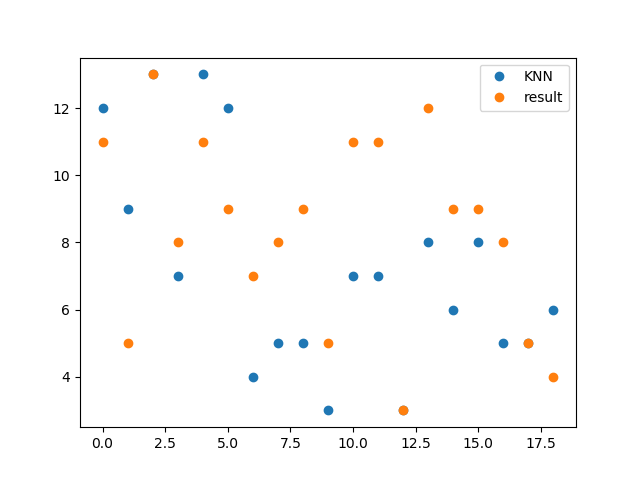
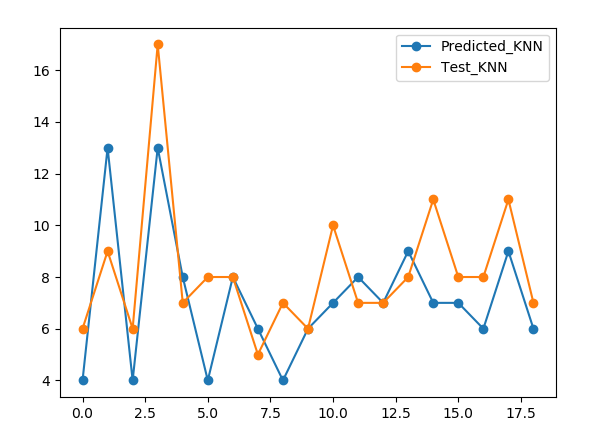
some changes

diff --git a/wine reviews machine learning/general_graph.py b/wine reviews machine learning/general_graph.py
@@ -1,0 +1,22 @@
+import matplotlib.pyplot as plt
+
+
+knn_scores_ev = [0.19047619,0.2,0.33333333,0,0.11111111,0.25,0,0.33333333,0,0.33333333]
+logreg_scores_ev = [0.19047619,0.2,0.33333333,0.33333333,0.22222222,0.25,0.16666667,0.66666667,0.25,0.33333333]
+
+logreg_scores_sum = [0.047619047619047616, 0.2, 0.08333333333333333, 0.5555555555555556, 0.2222222222222222, 0.375, 0.16666666666666666, 0.5, 0.25, 0.3333333333333333]
+knn_scores_sum = [0.14285714285714285, 0.13333333333333333, 0.08333333333333333, 0.1111111111111111, 0.4444444444444444, 0.125, 0.3333333333333333, 0.16666666666666666, 0.25, 0.3333333333333333]
+
+knn_scores_hour = [0.047619047619047616, 0.06666666666666667, 0.08333333333333333, 0.1111111111111111, 0.2222222222222222, 0.375, 0.16666666666666666, 0.0, 0.0, 0.3333333333333333]
+logreg_scores_hour = [0.0, 0.2, 0.08333333333333333, 0.3333333333333333, 0.2222222222222222, 0.25, 0.3333333333333333, 0.3333333333333333, 0.25, 0.0]
+
+
+plt.plot([sum(knn_scores_ev)/len(knn_scores_ev),sum(knn_scores_ev)/len(knn_scores_ev),sum(knn_scores_ev)/len(knn_scores_ev)], marker = '', ls = '--', label = 'knn_scores_ev' )
+plt.plot([sum(logreg_scores_ev)/len(logreg_scores_ev),sum(logreg_scores_ev)/len(logreg_scores_ev),sum(logreg_scores_ev)/len(logreg_scores_ev)], marker = '', ls = '--', label = 'logreg_scores_ev')
+plt.plot([sum(knn_scores_sum)/len(knn_scores_sum),sum(knn_scores_sum)/len(knn_scores_sum),sum(knn_scores_sum)/len(knn_scores_sum)], marker = '', ls = '--', label = 'knn_scores_sum')
+plt.plot([sum(logreg_scores_sum)/len(logreg_scores_sum),sum(logreg_scores_sum)/len(logreg_scores_sum),sum(logreg_scores_sum)/len(logreg_scores_sum)], marker = '', ls = '--', label = 'logreg_scores_sum')
+plt.plot([sum(knn_scores_hour)/len(knn_scores_hour),sum(knn_scores_hour)/len(knn_scores_hour),sum(knn_scores_hour)/len(knn_scores_hour)], marker = '', ls = '--', label = 'knn_scores_hour')
+plt.plot([sum(logreg_scores_hour)/len(logreg_scores_hour),sum(logreg_scores_hour)/len(logreg_scores_hour),sum(logreg_scores_hour)/len(logreg_scores_hour)], marker = '', ls = '--', label = 'logreg_scores_hour')
+plt.title('Accuracy of different parameters choices and methods', loc='center')
+plt.legend()
+plt.show()

diff --git a/wine reviews machine learning/knn_and_logreg_sum.py b/wine reviews machine learning/knn_and_logreg_sum.py
@@ -52,10 +52,17 @@ X_train, X_test, y_train, y_test = train_test_split(train, target, test_size=0.2
 knn = KNeighborsClassifier(n_neighbors=3)
 
 #Train the model using the training sets
-#knn.fit(X_train, y_train)
+knn.fit(X_train, y_train)
 
 #Predict the response for test dataset
-#y_pred = knn.predict(X_test)
+y_pred = knn.predict(X_test)
+
+y_pred = knn.predict(X_test)
+p1 = plt.plot(y_pred, marker = 'o', ls = '-')
+p2 = plt.plot(y_test, marker = 'o', ls = '-')
+
+plt.legend((p1[0],p2[0]),('Predicted_KNN', 'Test_KNN'))
+plt.show()
 
 knn_scores = cross_val_score(knn, train, target, cv = 10, scoring='accuracy')
 
@@ -77,10 +84,10 @@ logreg = LogisticRegression()
 logreg.fit(X_train, y_train)
 
 logreg_predict = logreg.predict(X_test)
-p1 = plt.plot(logreg_predict, marker = 'o', ls = '')
-p2 = plt.plot(y_test, marker = 'o', ls = '')
+p1 = plt.plot(logreg_predict, marker = 'o', ls = '-')
+p2 = plt.plot(y_test, marker = 'o', ls = '-')
 
-plt.legend((p1[0],p2[0]),('logreg', 'result'))
+plt.legend((p1[0],p2[0]),('Predicted_logreg', 'Test_logreg'))
 plt.show()
 
 logreg_scores = cross_val_score(logreg, train, target, cv = 10, scoring='accuracy')
@@ -91,6 +98,10 @@ print("Accuracy:",logreg_scores.mean())
 print("Precision:",logreg_scores_precision.mean())
 print("F1:",logreg_scores_f1.mean())
 
-plt.plot(knn_scores, marker = 'o', ls = '-')
-plt.plot(logreg_scores, marker = 'o', ls = '-')
+print(list(logreg_scores))
+print(list(knn_scores))
+
+plt.plot(knn_scores, marker = '', ls = '-')
+plt.plot(logreg_scores, marker = '', ls = '-')
+plt.legend((p1[0],p2[0]),('knn_socres', 'logreg_scores'))
 a = input("Enter to close")

diff --git a/wine reviews machine learning/knn_and_logreg_everything_scaling.py b/wine reviews machine learning/knn_and_logreg_everything_scaling.py
@@ -82,10 +82,10 @@ knn.fit(X_train, y_train)
 
 #Predict the response for test dataset
 y_pred = knn.predict(X_test)
-p1 = plt.plot(y_pred, marker = 'o', ls = '')
-p2 = plt.plot(y_test, marker = 'o', ls = '')
+p1 = plt.plot(y_pred, marker = 'o', ls = '-')
+p2 = plt.plot(y_test, marker = 'o', ls = '-')
 
-plt.legend((p1[0],p2[0]),('KNN', 'result'))
+plt.legend((p1[0],p2[0]),('Predicted_KNN', 'Test_KNN'))
 plt.show()
 
 knn_scores = cross_val_score(knn, train, target, cv = 10, scoring='accuracy')
@@ -113,12 +113,13 @@ logreg_scores = cross_val_score(logreg, train, target, cv = 10, scoring='accurac
 logreg_scores_precision = cross_val_score(logreg,  train, target, cv = 10, scoring ='precision_micro')
 logreg_scores_f1 = cross_val_score(logreg,  train, target, cv = 10, scoring ='f1_micro')
 
-plt.plot(knn_scores, marker = 'o', ls = '-')
-plt.plot(logreg_scores, marker = 'o', ls = '-')
+plt.plot(knn_scores, marker = '', ls = '-')
+plt.plot(logreg_scores, marker = '', ls = '-')
+plt.legend((p1[0],p2[0]),('KNN_scores', 'logreg_scores'))
 plt.show()
 
 print(knn_scores)
-print(logerg_scores)
+print(logreg_scores)
 
 print("Accuracy:",logreg_scores.mean())
 print("Precision:",logreg_scores_precision.mean())

diff --git a/wine reviews machine learning/knn_and_logreg_hour.py b/wine reviews machine learning/knn_and_logreg_hour.py
@@ -48,9 +48,9 @@ knn.fit(X_train, y_train)
 #Predict the response for test dataset
 y_pred = knn.predict(X_test)
 
-plt.plot(X_test, marker = 'o', ls = '-')
 plt.plot(y_test, marker = 'o', ls = '-')
 plt.plot(y_pred, marker = 'o', ls = '-')
+
 plt.show()
 
 knn_scores = cross_val_score(knn, train, target, cv = 10, scoring='accuracy')
@@ -78,10 +78,14 @@ logreg_scores = cross_val_score(logreg, train, target, cv = 10, scoring='accurac
 logreg_scores_precision = cross_val_score(logreg,  train, target, cv = 10, scoring ='precision_micro')
 logreg_scores_f1 = cross_val_score(logreg,  train, target, cv = 10, scoring ='f1_micro')
 
-plt.plot(knn_scores, marker = 'o', ls = '-')
-plt.plot(logreg_scores, marker = 'o', ls = '-')
+plt.plot(knn_scores, marker = '', ls = '-')
+plt.plot(logreg_scores, marker = '', ls = '-')
+
 
 plt.show()
+
+print(list(knn_scores))
+print(list(logreg_scores))
 
 print("Accuracy:",logreg_scores.mean())
 print("Precision:",logreg_scores_precision.mean())
